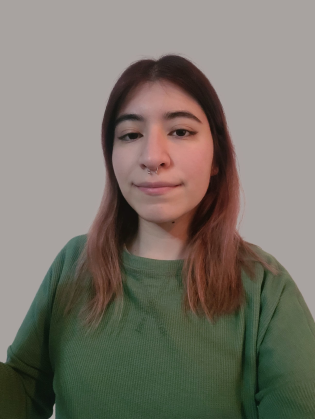
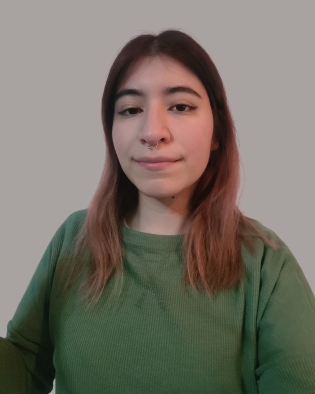
style: change widths and profile picture

diff --git a/src/sections/About.jsx b/src/sections/About.jsx
@@ -30,20 +30,20 @@ const About = () => {
         <img
           src={Perfil}
           alt="Foto de perfil"
-          className="h-auto max-h-full w-2/3 rounded-2xl object-cover sm:w-full md:w-3/5"
+          className="h-auto max-h-full w-1/2 rounded-2xl object-cover sm:w-full md:w-3/4"
         />
-        <ul className="flex w-full flex-col justify-between gap-y-2 md:col-span-1 md:gap-y-3">
-          <li className="flex h-full w-full items-center justify-center rounded-2xl bg-lightbox p-4 text-2xl text-white dark:bg-darkbox min-[500px]:text-3xl">
+        <ul className="flex w-1/2 md:w-1/4 flex-col justify-between gap-y-2 md:col-span-1 md:gap-y-3">
+          <li className="flex h-full w-full items-center justify-center rounded-2xl bg-lightbox p-4 text-2xl lg:text-4xl text-white dark:bg-darkbox min-[500px]:text-3xl">
             <a href="https://www.linkedin.com/in/sheila-diz" target="_blank">
               <FaLinkedin className="mb-1 mr-1 inline" />
             </a>
           </li>
-          <li className="flex h-full w-full items-center justify-center rounded-2xl bg-lightbox p-4 text-2xl text-white dark:bg-darkbox min-[500px]:text-3xl">
+          <li className="flex h-full w-full items-center justify-center rounded-2xl bg-lightbox p-4 text-2xl lg:text-4xl text-white dark:bg-darkbox min-[500px]:text-3xl">
             <a href="https://github.com/sheidiz" target="_blank">
               <FaGithub className="mb-1 mr-1 inline" />
             </a>
           </li>
-          <li className="flex h-full w-full items-center justify-center rounded-2xl bg-lightbox p-4 text-2xl text-white dark:bg-darkbox min-[500px]:text-3xl">
+          <li className="flex h-full w-full items-center justify-center rounded-2xl bg-lightbox p-4 text-2xl lg:text-4xl text-white dark:bg-darkbox min-[500px]:text-3xl">
             <a href="mailto:dizsheila07@gmail.com" target="_blank">
               <MdEmail className="mb-1 mr-1 inline" />
             </a>
